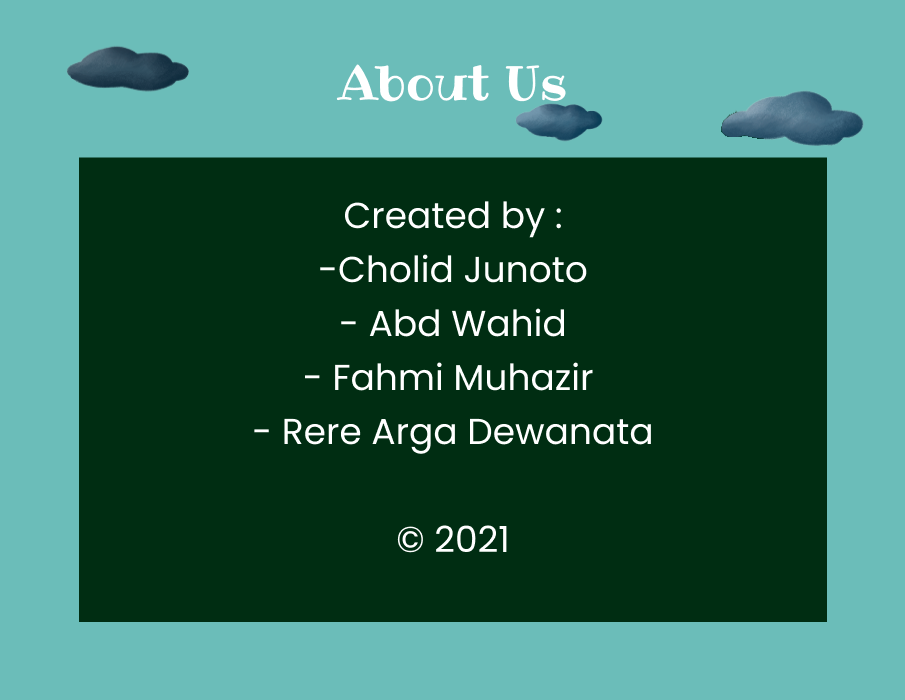
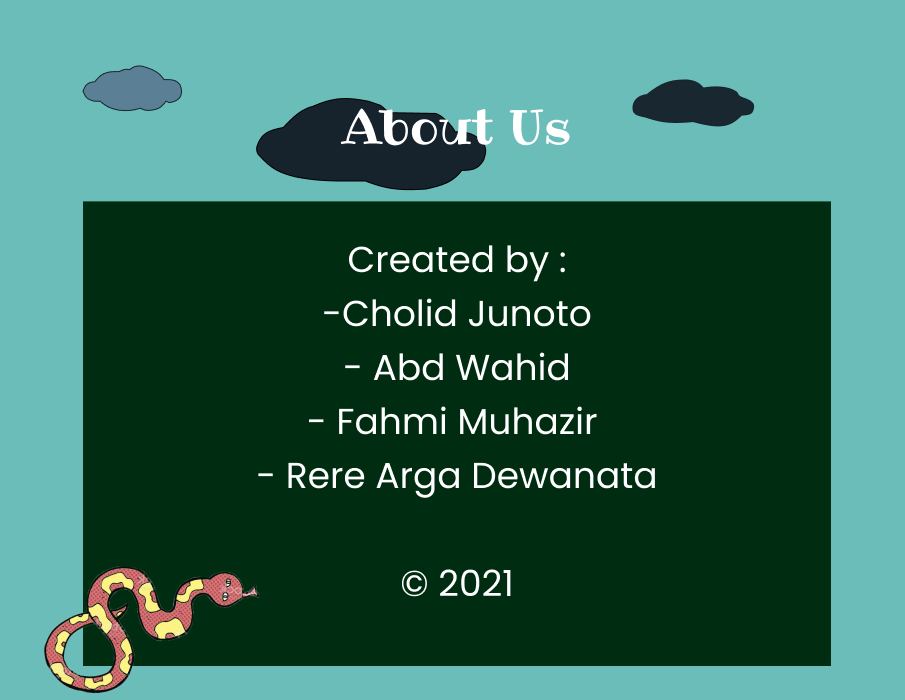
Redesign loading screen, about us, and fix bug loading screen

diff --git a/src/com/github/wahidabd/fp/start/Welcome.java b/src/com/github/wahidabd/fp/start/Welcome.java
@@ -20,7 +20,7 @@ public class Welcome extends JWindow {
         panel.setOpaque(false);
 
         // Progress bar top
-        JProgressBar progressBar = new JProgressBar(0, 100);
+        JProgressBar progressBar = new JProgressBar(0, 500);
         progressBar.setStringPainted(false);
         progressBar.setPreferredSize(new Dimension(getWidth() -10, 15));
         progressBar.setForeground(Color.GREEN);
@@ -32,7 +32,7 @@ public class Welcome extends JWindow {
 
         setVisible(true);
 
-        for (int i = 0; i < 100; i++) {
+        for (int i = 0; i < 500; i++) {
             try {
                 progressBar.setValue(i);
                 Thread.sleep(duration);
@@ -56,7 +56,7 @@ public class Welcome extends JWindow {
         private final ImageIcon image;
 
         public ImageSplash(){
-            image = new ImageIcon("assets/welcomeImage.png");
+            image = new ImageIcon("assets/loading_Screen.png");
         }
 
         @Override

diff --git a/src/com/github/wahidabd/fp/utils/Constant.java b/src/com/github/wahidabd/fp/utils/Constant.java
@@ -9,7 +9,7 @@ public class Constant {
     // Image
     public static final String BACKGROUND_IMAGE = "assets/background.png";
     public static final String BACKGROUND_MAINMENU = "assets/mainMenu.png";
-    public static final String IMAGE_ABOUT_US = "assets/about_us.png";
+    public static final String IMAGE_ABOUT_US = "assets/about_Us.png";
     public static final String START_IMAGE = "assets/start.png";
     public static final String ABOUT_IMAGE = "assets/about.png";
     public static final String FRUIT_IMAGE = "assets/fruit.png";

diff --git a/src/com/github/wahidabd/fp/start/Start.java b/src/com/github/wahidabd/fp/start/Start.java
@@ -26,11 +26,11 @@ public class Start extends JPanel {
         setFocusable(true);
         setOpaque(false);
         
-        soundMainMenu.setFile(Constant.MUSIC_MAINMENU);
-		soundMainMenu.playMusic(0.7);
-		soundClick.setFile(Constant.MUSIC_CLICK);
-        
         showPanel();
+        soundMainMenu.setFile(Constant.MUSIC_MAINMENU);
+   		soundMainMenu.playMusic(0.5);
+   		soundClick.setFile(Constant.MUSIC_CLICK);
+           
     }
 
     private void showPanel(){
